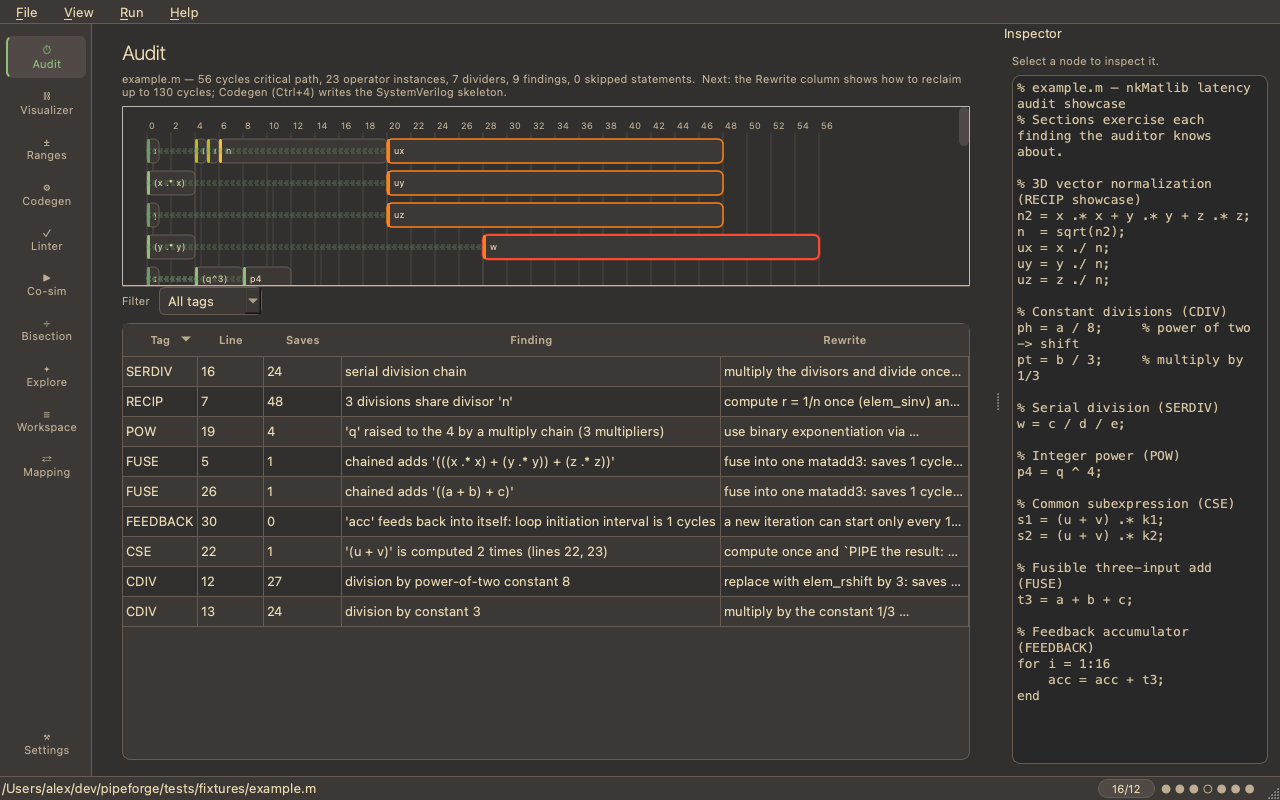
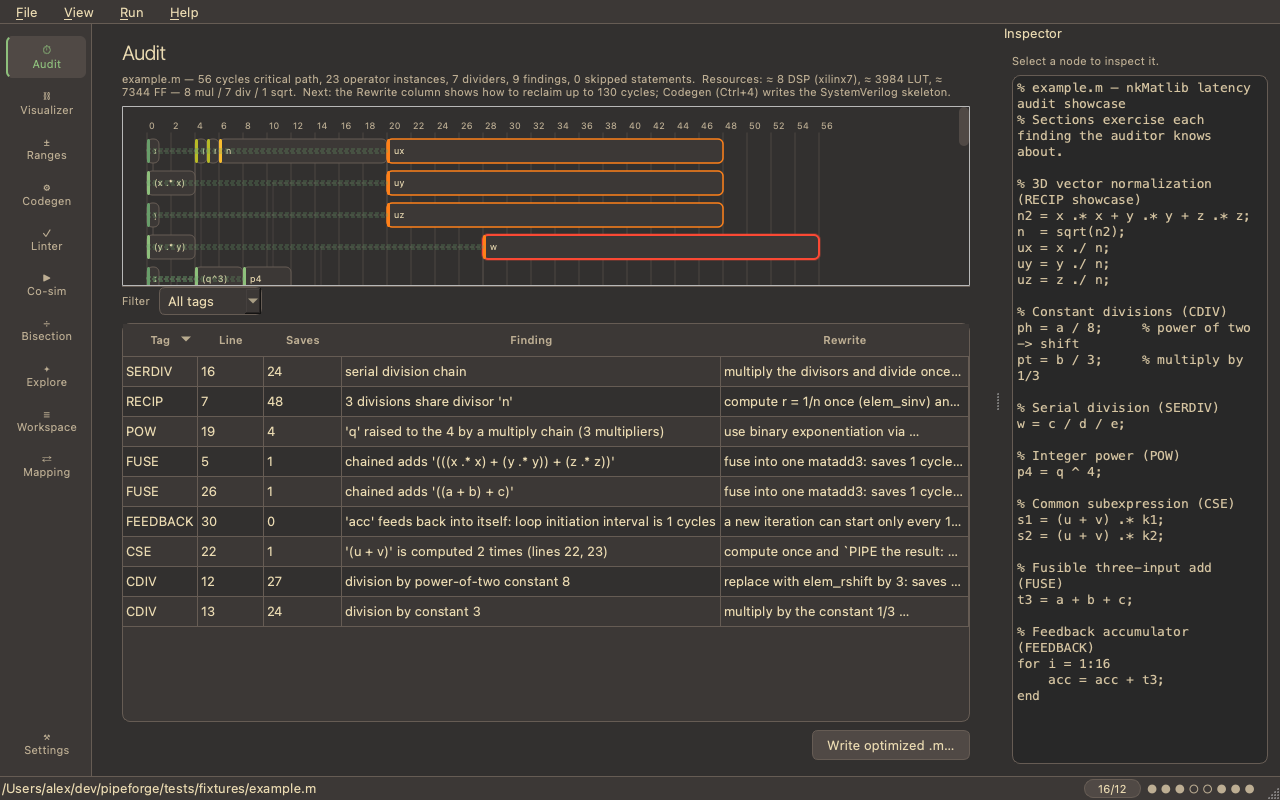
release: 0.2.0 — CHANGELOG, tag-triggered PyPI publish workflow, docs
Version 0.2.0 in pyproject + package; CHANGELOG.md covering the UX overhaul,
engineer-workflow, and streaming/projects cycles; .github/workflows/release.yml
publishes to PyPI via trusted publishing on v* tags (one-time PyPI publisher
setup documented in the workflow header); README documents local functions,
delay(x) with a MATLAB-runnable stub, optimize, ci, backend auto; FIR demo;
RTM + screenshots regenerated.

Changed region(s): [[0.0938, 0.0938, 0.75, 0.125], [0.625, 0.9062, 0.75, 0.9375], [0.8438, 0.9688, 0.9062, 1.0]]

diff --git a/src/pipeforge/__init__.py b/src/pipeforge/__init__.py
@@ -1,3 +1,3 @@
 """PipeForge — MATLAB-to-nkMatlib FPGA pipeline workbench."""
 
-__version__ = "0.1.0"
+__version__ = "0.2.0"

diff --git a/README.md b/README.md
@@ -26,10 +26,11 @@ with every matching delay computed. When RTL and model disagree, it tells you
 3. [Five-minute tour](#five-minute-tour)
 4. [Concepts you need](#concepts-you-need)
 5. [The CLI, command by command](#the-cli-command-by-command)
-   - [audit](#cli-audit) · [codegen](#cli-codegen) · [lint](#cli-lint) ·
-     [ranges](#cli-ranges) · [dse](#cli-dse) · [cosim](#cli-cosim) ·
-     [synth](#cli-synth) · [export-tb](#cli-export-tb) · [report](#cli-report) ·
-     [oracle](#cli-oracle) · [reconcile](#cli-reconcile) · [map](#cli-map) ·
+   - [audit](#cli-audit) · [optimize](#cli-optimize) · [codegen](#cli-codegen) ·
+     [lint](#cli-lint) · [ranges](#cli-ranges) · [dse](#cli-dse) ·
+     [cosim](#cli-cosim) · [ci](#cli-ci) · [synth](#cli-synth) ·
+     [export-tb](#cli-export-tb) · [report](#cli-report) · [oracle](#cli-oracle) ·
+     [reconcile](#cli-reconcile) · [map](#cli-map) ·
      [traceability](#cli-traceability) · [matlab](#cli-matlab) · [demos](#cli-demos)
 6. [The GUI, view by view](#the-gui-view-by-view)
 7. [End-to-end workflows](#end-to-end-workflows)
@@ -66,6 +67,9 @@ using one shared cost model so every answer is comparable to every other.
 | Know how many DSP48s / LUTs this costs | [`audit --resources`](#cli-audit) | a `.m` file |
 | Sanity-check cells + logic depth before Vivado | [`synth`](#cli-synth) | a `.sv` + yosys |
 | Spend fewer bits where ranges prove it's safe | [`codegen --mixed`](#cli-codegen) | a `.m` + input ranges |
+| Apply the findings' rewrites automatically | [`optimize`](#cli-optimize) | a `.m` file |
+| Run the whole gate from one file | [`ci`](#cli-ci) | a `.pipeforge.toml` sidecar |
+| Build a filter (z⁻¹ taps) | [`delay(x)`](#the-matlab-subset-pipeforge-understands) | a `.m` file |
 | Drop the module into an AXI-Stream design | [`codegen --axis`](#cli-codegen) | a `.m` file |
 | Gate pull requests on lint + cosim | [SARIF/JUnit outputs](docs/ci.md) | CI + Verilator |
 | Attach one reviewable artifact to a design review | [`report`](#cli-report) | a `.m` file |
@@ -639,8 +643,9 @@ For hand-written RTL you usually just add `--bisect` (no probes) and let the tra
 fallback localize it; probes are the robust path for generated RTL.
 
 **Options:**
-- `--backend verilator` — cocotb-free native harness (only Verilator needed);
-  bit-identical to cocotb.
+- `--backend auto|cocotb|verilator` — auto (default) picks cocotb when it is
+  importable and otherwise the cocotb-free native harness, so a Verilator-only
+  machine just works; both backends are bit-identical.
 - `--cadence continuous|gapped|single|restart` — valid-driving pattern; comparison
   stays valid-gated regardless.
 - `--vectors N` — stimulus count (default 256).
@@ -840,6 +845,40 @@ sit within an LSB or two at sensible SCALEs.
 **Expect:** the first snapshot after a cold MATLAB start can take seconds (a
 warm/kept-alive session, configured in the GUI, drops this to ~0.1 s). Missing or
 unreachable MATLAB → exit 3 with the list of candidates it tried.
+
+---
+
+### <a id="cli-optimize"></a>`optimize` — apply the findings, keep the source readable
+
+**Helps you:** stop hand-applying the auditor's rewrites.
+
+```sh
+pipeforge-cli optimize model.m -o model_opt.m     # or --in-place
+```
+
+Applies RECIP, CDIV, SERDIV, POW, and CSE to the MATLAB *text*: rewritten
+statements carry a `% pipeforge:` marker, untouched lines stay byte-identical.
+The report is deliberately honest: critical-path delta, divider delta, and a
+per-output accuracy comparison (these rewrites move fixed-point rounding — the
+optimized pipeline is usually *more* accurate, but the numbers say so). When
+divisions were parallel, RECIP trades a few cycles of depth for a divider of
+area, and the report says that too. Also in the GUI: **Write optimized .m…**
+in the Audit view.
+
+---
+
+### <a id="cli-ci"></a>`ci` — the whole gate from one sidecar
+
+**Helps you:** gate a PR with a single command and a reviewed config file.
+
+```sh
+pipeforge-cli ci model.pipeforge.toml [--junit-xml cosim.xml] [--sarif lint.sarif]
+```
+
+Reads the design's `.pipeforge.toml` sidecar (the GUI writes it as you work:
+declared ranges, WIDTH/SCALE, the cosim setup) and runs audit → ranges → lint →
+cosim, failing on overflow/hazards, lint findings, or a cosim mismatch — exit 1;
+missing simulation tools exit 3. See [docs/ci.md](docs/ci.md).
 
 ---
 
@@ -1097,7 +1136,36 @@ unary minus; transpose `'` / `.'`; parentheses; comments `%`; line continuations
 operands*; matrix literals `[ ... ]` as opaque concatenation; simple `for` loops
 (for feedback detection); `reshape`; and these functions:
 
-`sqrt abs max min norm sumsqr cross dot vecnorm transpose ones zeros`
+`sqrt abs max min norm sumsqr cross dot vecnorm transpose ones zeros delay`
+
+**Local functions (FN-1):** scripts may define `function out = name(args) … end`
+after the script body (standard MATLAB). Calls are inlined at every call site
+with hygienic renaming — nested calls work; recursion, multi-output *call sites*,
+and bodies that reach outside their parameters are skipped-and-reported. Inlined
+costs are attributed to the call site's line.
+
+**`delay(x)` — z⁻¹ unit delay (SD-1):** the previous sample of `x`, enabling FIR
+taps, moving averages, and other streaming state:
+
+```matlab
+x1 = delay(x);          % x[k-1]
+x2 = delay(x1);         % x[k-2]
+y  = 0.5.*x + 0.25.*x1 + 0.25.*x2;   % 3-tap FIR — cosim proves it bit-exact
+```
+
+It costs one register and — deliberately — zero schedule cycles: in the slot
+algebra `signal_m at clock c carries sample (c−m)`, a register that also
+advanced the stage number would be sample-transparent (that is exactly what a
+`` `PIPE`` is). State assumes gapless streaming (the nkMatlib contract), so
+co-simulation of stateful designs requires the continuous cadence. To run the
+same script in MATLAB, add this local function:
+
+```matlab
+function y = delay(x)
+  persistent s; if isempty(s), s = zeros(size(x)); end
+  y = s; s = x;
+end
+```
 
 Everything else — `if`/`while` bodies, strings, comparisons, unknown functions,
 non-constant exponents — is **skipped and reported** with its line and reason.
@@ -1117,8 +1185,13 @@ the equivalent app-config dir). Deleting it yields a clean first run.
 | `matlab_cache/` | cached workspace snapshots (keyed by script/setup mtimes) |
 | `matlab_work/` | generated `pf_query.m` + raw snapshot JSON (home-shared with containers) |
 
-Project sidecars: `pipeforge.map.json` (the MATLAB↔RTL correspondence map) lives
-next to your design, not in the config dir — it's part of the project.
+Project sidecars live next to your design, not in the config dir — they are
+part of the project: `pipeforge.map.json` (the MATLAB↔RTL correspondence map)
+and `<design>.pipeforge.toml` (PJ-1: ranges, WIDTH/SCALE, cosim configuration,
+device family — written automatically when you propagate ranges or run a
+co-simulation, restored whenever the design reopens, and consumed whole by
+`pipeforge-cli ci <design>.pipeforge.toml`, which runs audit + ranges + lint +
+cosim as one CI gate with `--junit-xml`/`--sarif` outputs).
 
 Environment variables: `PIPEFORGE_MATLAB` (MATLAB command override),
 `XDG_CONFIG_HOME` (relocates the config dir), `QT_QPA_PLATFORM=offscreen`

diff --git a/CHANGELOG.md b/CHANGELOG.md
@@ -1,0 +1,58 @@
+# Changelog
+
+## 0.2.0 — 2026-07-06
+
+The "engineers' workflow" release: PipeForge now closes the loop from MATLAB
+to waveform viewer, CI gate, and integration-ready RTL — and got a star. ✵
+
+### Language & frontend
+- **Local functions** (FN-1): scripts may define `function out = name(args) … end`
+  after the body; calls inline hygienically at every call site (nested calls
+  supported; recursion and non-self-contained bodies are reported per-statement).
+- **`delay(x)` unit delay** (SD-1): z⁻¹ state for streaming filters (FIR taps,
+  moving averages). Stateful golden-model evaluation threads through cosim,
+  bisection, DSE, and the oracle; generated RTL is bit-exact under Verilator.
+  A runnable MATLAB stub is documented (persistent-variable `delay.m`).
+- **Indexing/field/range wiring in codegen** (WR-1): pass-through semantics the
+  auditor and golden model already used; only multi-element concatenation
+  remains an explicit error.
+
+### Optimization
+- **`pipeforge-cli optimize`** (OP-1): applies the auditor's rewrites —
+  RECIP, CDIV, SERDIV, POW, CSE — to the MATLAB *source* (readable output,
+  `% pipeforge:` markers, untouched lines byte-identical) with the critical-path
+  delta and an honest per-output accuracy comparison. Also in the Audit view.
+- **Mixed-precision codegen** (MX-1, since the previous cycle): `codegen
+  --mixed` narrows range-proven operators; verify with `cosim --range`.
+
+### Verification & debug
+- **Waveform hand-off** (WV-1): failing traced runs write `divergence.gtkw` —
+  GTKWave opens with the divergent stage pre-loaded, cursor on the failing cycle.
+- **Failure replay** (VX-1) and **standalone testbench export** (VX-2).
+- **Verilator lint backend** (SL-7), **auto backend selection** (TL-2: cocotb
+  when importable, else the Verilator-native harness), and a cocotb 2.x
+  waves/trace fix.
+
+### Projects & CI
+- **`.pipeforge.toml` design sidecar** (PJ-1): ranges, format, cosim config,
+  and device family persist next to the `.m`; the GUI restores them on open.
+- **`pipeforge-cli ci design.pipeforge.toml`** (PJ-2): the whole configured
+  gate — audit, ranges, lint, cosim — in one command with JUnit/SARIF outputs.
+- JUnit XML (CI-1), SARIF (CI-2), HTML design-review report (RH-1),
+  `--watch` mode (WT-1), yosys synth estimate (SY-1), device resource
+  estimates (RE-1), AXI-Stream wrapper generation (AX-1).
+
+### GUI
+- Welcome screen, menu bar, workflow-ordered labeled sidebar, Ranges view,
+  recent files, drag-and-drop (previous cycle); this cycle adds timeline
+  **Ctrl+wheel zoom**, **type-to-find**, range **overflow/÷0 badges** on the
+  bars, and project-sidecar restore for ranges and cosim configuration.
+
+### Cosmetics
+- `pipeforge-cli` greets interactive terminals with a big ✵. Pipes, CI, and
+  tests never see it (`PIPEFORGE_BANNER=0/1` overrides).
+
+## 0.1.0 — 2026-06
+
+Initial baseline per PF-SRS-001 Rev A: audit, golden model, co-simulation,
+bisection, linter, codegen, ranges, DSE, MATLAB bridge, mapping, GUI.